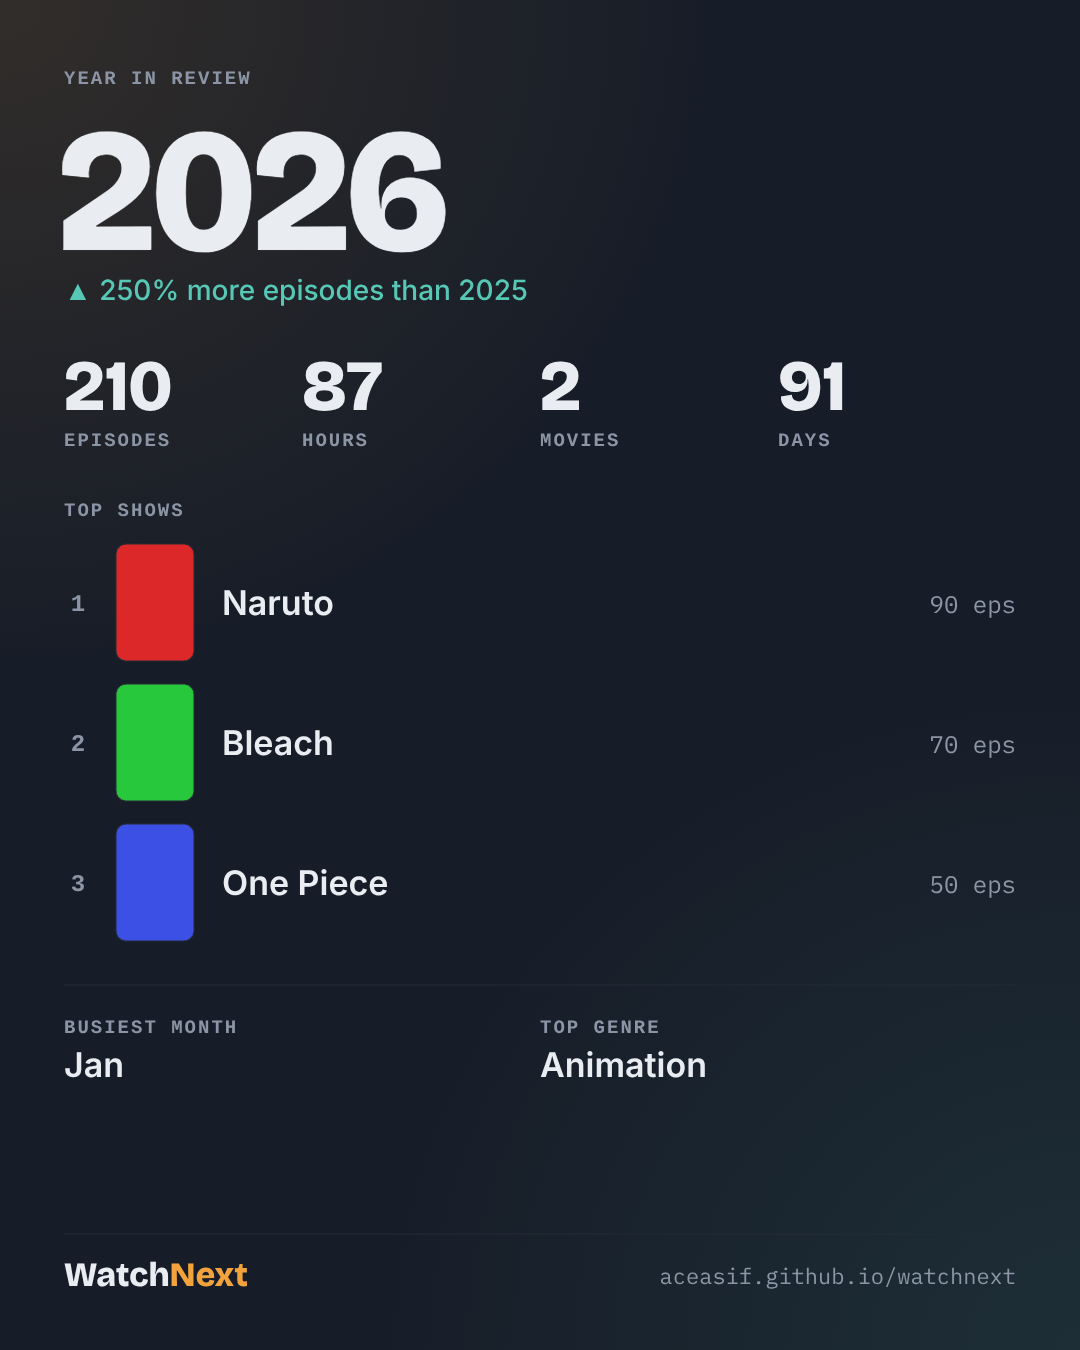
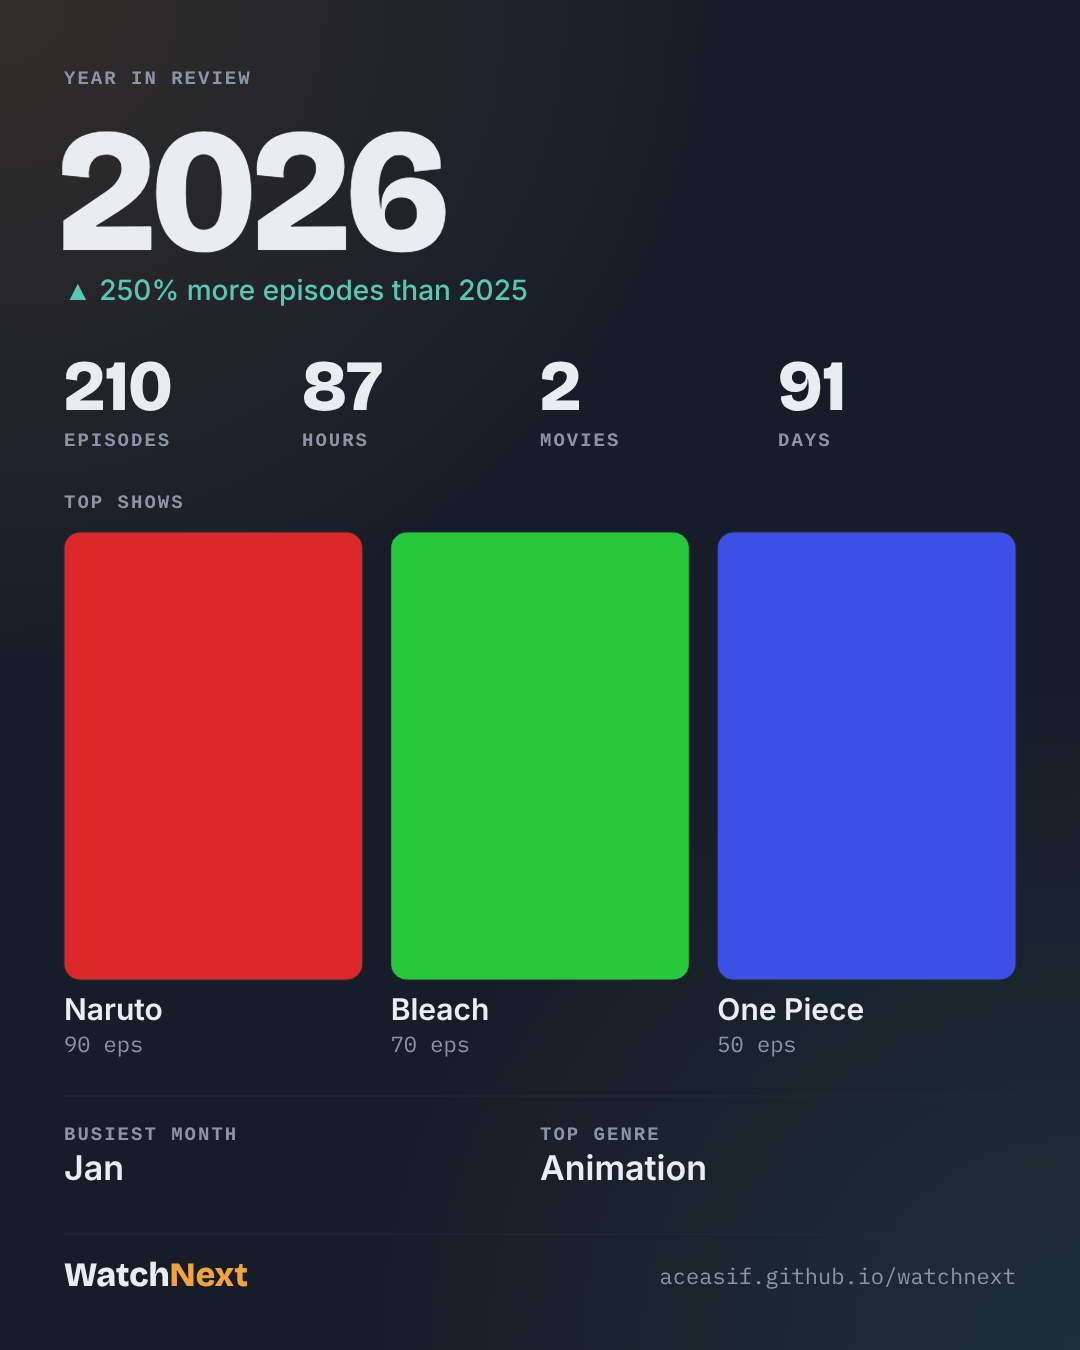
Year-in-Review image: bring back the big 3-across poster grid
- Top 3 shows are large 2:3 posters again (~299px wide) with title and
  episode count underneath, replacing the small row thumbnails
- Missing posters get a large initial tile; long titles truncate with an ellipsis

Changed region(s): [[0.0611, 0.3422, 0.9472, 0.8089], [0.4889, 0.84, 0.6417, 0.8711], [0.0611, 0.84, 0.1222, 0.8711]]

diff --git a/src/components/yearImageRender.js b/src/components/yearImageRender.js
@@ -1,4 +1,4 @@
-import { IMG_W, IMG_H, IMG_PAD, IMG_URL, COLORS as C, GLOWS, ROW, fitText, initialOf, statCells, planYearImage } from './yearImageLogic.js';
+import { IMG_W, IMG_H, IMG_PAD, IMG_URL, COLORS as C, GLOWS, fitText, initialOf, statCells, planYearImage, posterBox } from './yearImageLogic.js';
 
 const DISPLAY = '"Bricolage Grotesque", sans-serif';
 const BODY = '"Inter", "Hiragino Sans", "Noto Sans JP", sans-serif';
@@ -78,44 +78,34 @@ export async function renderYearImage(data, { loadImg, posterUrl }) {
     label(l, x, plan.statsLabelY);
   });
 
-  // top shows as rows: rank, poster, name, "N eps"
+  // top shows: three big posters across, name + "N eps" underneath
   if (plan.shows.length) {
     label('TOP SHOWS', P, plan.showsLabelY);
     plan.shows.forEach((sh, i) => {
-      const top = plan.rowsTop + i * ROW.pitch;
-      const px = P + 52, pw = ROW.posterW, ph = ROW.posterH;
-      const mid = top + ph / 2;
-
-      ctx.font = `700 24px ${MONO}`; ctx.fillStyle = C.dim; ctx.textAlign = 'center';
-      ctx.fillText(String(i + 1), P + 14, mid + 8); ctx.textAlign = 'left';
-
+      const { x, y, w: pw, h: ph } = posterBox(plan, i);
       ctx.save();
-      rr(ctx, px, top, pw, ph, 10); ctx.clip();
+      rr(ctx, x, y, pw, ph, 16); ctx.clip();
       const im = imgs[i];
       if (im) {
         const ar = im.width / im.height, tar = pw / ph;
         let sw, sh2, sx, sy;
         if (ar > tar) { sh2 = im.height; sw = sh2 * tar; sx = (im.width - sw) / 2; sy = 0; }
         else { sw = im.width; sh2 = sw / tar; sx = 0; sy = (im.height - sh2) / 2; }
-        ctx.drawImage(im, sx, sy, sw, sh2, px, top, pw, ph);
+        ctx.drawImage(im, sx, sy, sw, sh2, x, y, pw, ph);
       } else {
-        ctx.fillStyle = C.raise; ctx.fillRect(px, top, pw, ph);
-        ctx.fillStyle = C.dim; ctx.font = `800 40px ${DISPLAY}`; ctx.textAlign = 'center';
-        ctx.fillText(initialOf(sh.name), px + pw / 2, mid + 14); ctx.textAlign = 'left';
+        ctx.fillStyle = C.raise; ctx.fillRect(x, y, pw, ph);
+        ctx.fillStyle = C.dim; ctx.font = `800 120px ${DISPLAY}`; ctx.textAlign = 'center';
+        ctx.fillText(initialOf(sh.name), x + pw / 2, y + ph / 2 + 42); ctx.textAlign = 'left';
       }
       ctx.restore();
       ctx.strokeStyle = C.line; ctx.lineWidth = 1;
-      rr(ctx, px, top, pw, ph, 10); ctx.stroke();
+      rr(ctx, x, y, pw, ph, 16); ctx.stroke();
 
-      const tx = px + pw + 28;
-      const epsText = `${sh.count} eps`;
-      ctx.font = `400 24px ${MONO}`;
-      const epsW = ctx.measureText(epsText).width;
       ctx.fillStyle = C.text;
-      ctx.font = `600 34px ${BODY}`;
-      ctx.fillText(fit(sh.name, `600 34px ${BODY}`, W - P - epsW - 28 - tx), tx, mid + 12);
-      ctx.fillStyle = C.dim; ctx.font = `400 24px ${MONO}`; ctx.textAlign = 'right';
-      ctx.fillText(epsText, W - P, mid + 10); ctx.textAlign = 'left';
+      ctx.font = `600 30px ${BODY}`;
+      ctx.fillText(fit(sh.name, `600 30px ${BODY}`, pw - 4), x, plan.nameY);
+      ctx.fillStyle = C.dim; ctx.font = `400 22px ${MONO}`;
+      ctx.fillText(`${sh.count} eps`, x, plan.epsY);
     });
   }
 

diff --git a/src/components/yearImageLogic.js b/src/components/yearImageLogic.js
@@ -72,7 +72,15 @@ export function factCells(data) {
   return f;
 }
 
-export const ROW = { pitch: 140, posterW: 78, posterH: 117 };
+// Top shows are three big posters across (like the original image), 2:3 each.
+export const GRID = { cols: 3, gap: 28 };
+export const POSTER_W = (IMG_W - 2 * IMG_PAD - (GRID.cols - 1) * GRID.gap) / GRID.cols; // ~298.7
+export const POSTER_H = Math.round(POSTER_W * 1.5); // 448
+
+// Box of poster `i` (0-based) given the plan's gridTop.
+export function posterBox(plan, i) {
+  return { x: IMG_PAD + i * (POSTER_W + GRID.gap), y: plan.gridTop, w: POSTER_W, h: POSTER_H };
+}
 
 // Vertical plan. Sections that have no data are skipped and everything below
 // moves up; the footer is pinned to the bottom. Returns baselines/tops in px
@@ -96,18 +104,20 @@ export function planYearImage(data) {
   const statsLabelY = statsTop + 96;
   y = statsTop + 110;
 
-  let showsLabelY = null, rowsTop = null;
+  let showsLabelY = null, gridTop = null, nameY = null, epsY = null;
   if (shows.length) {
-    showsLabelY = y + 56;
-    rowsTop = showsLabelY + 28;
-    y = rowsTop + (shows.length - 1) * ROW.pitch + ROW.posterH;
+    showsLabelY = y + 48;
+    gridTop = showsLabelY + 24;
+    nameY = gridTop + POSTER_H + 40;
+    epsY = nameY + 32;
+    y = epsY + 8;
   }
 
   let factsRule = null, factsLabelY = null, factsValueY = null;
   if (facts.length) {
-    factsRule = y + 44;
-    factsLabelY = factsRule + 48;
-    factsValueY = factsLabelY + 44;
+    factsRule = y + 36;
+    factsLabelY = factsRule + 44;
+    factsValueY = factsLabelY + 40;
     y = factsValueY + 10;
   }
 
@@ -115,7 +125,7 @@ export function planYearImage(data) {
   const footerRule = footerBase - 52;
   return {
     labelY, yearBase, deltaY, statsTop, statsValueY, statsLabelY,
-    showsLabelY, rowsTop, shows, factsRule, factsLabelY, factsValueY, facts,
+    showsLabelY, gridTop, nameY, epsY, shows, factsRule, factsLabelY, factsValueY, facts,
     delta, footerBase, footerRule, bottom: y,
   };
 }
